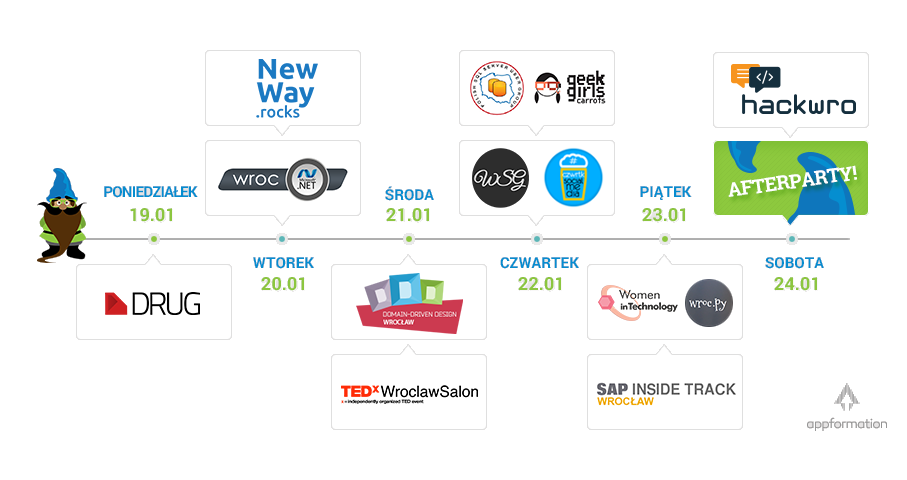
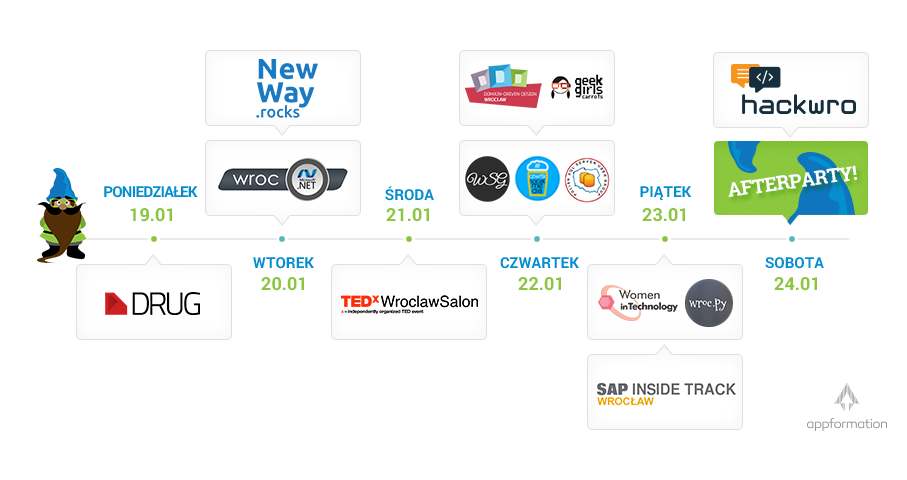
timeline with horizontal version and dddwro moved

diff --git a/js/init.js b/js/init.js
@@ -76,7 +76,7 @@
         if ((contentwidth) < '960'){
           $('#timeline').attr('src','images/timeline.png');
         } else {
-          $('#timeline').attr('src','images/timeline.png');
+          $('#timeline').attr('src','images/timeline960px.png');
         }
    }
    resize();
